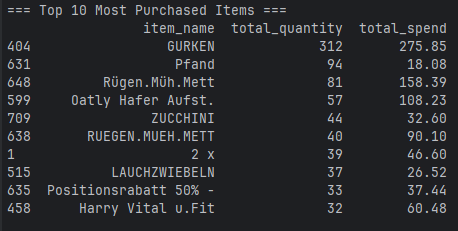
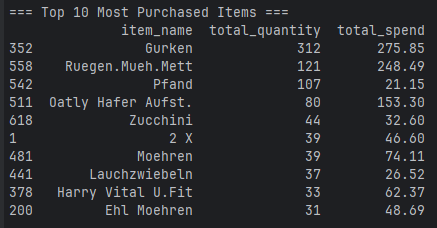
update example output

Changed region(s): [[0.0, 0.0, 0.7735, 0.9518], [0.7735, 0.0921, 0.9817, 0.9518]]

diff --git a/scripts/analysis/item_analysis.py b/scripts/analysis/item_analysis.py
@@ -5,7 +5,7 @@ def analyze_item_purchases(df):
     ).reset_index()
 
     # Most purchased items
-    item_stats_most_bought = item_stats.sort_values(by="total_quantity", ascending=False).head(20)
+    item_stats_most_bought = item_stats.sort_values(by="total_quantity", ascending=False).head(10)
 
     # Most expensive items
     item_stats_highest_spend = item_stats.sort_values(by="total_spend", ascending=False).head(10)

diff --git a/scripts/analysis/run_analysis.py b/scripts/analysis/run_analysis.py
@@ -31,7 +31,7 @@ def main():
     # Item Analysis
     item_stats, most_bought, most_expensive = analyze_item_purchases(df)
 
-    print("=== Top 20 Most Purchased Items ===")
+    print("=== Top 10 Most Purchased Items ===")
     print(most_bought, "\n")
 
     print("=== Top 10 Most Expensive Items ===")
